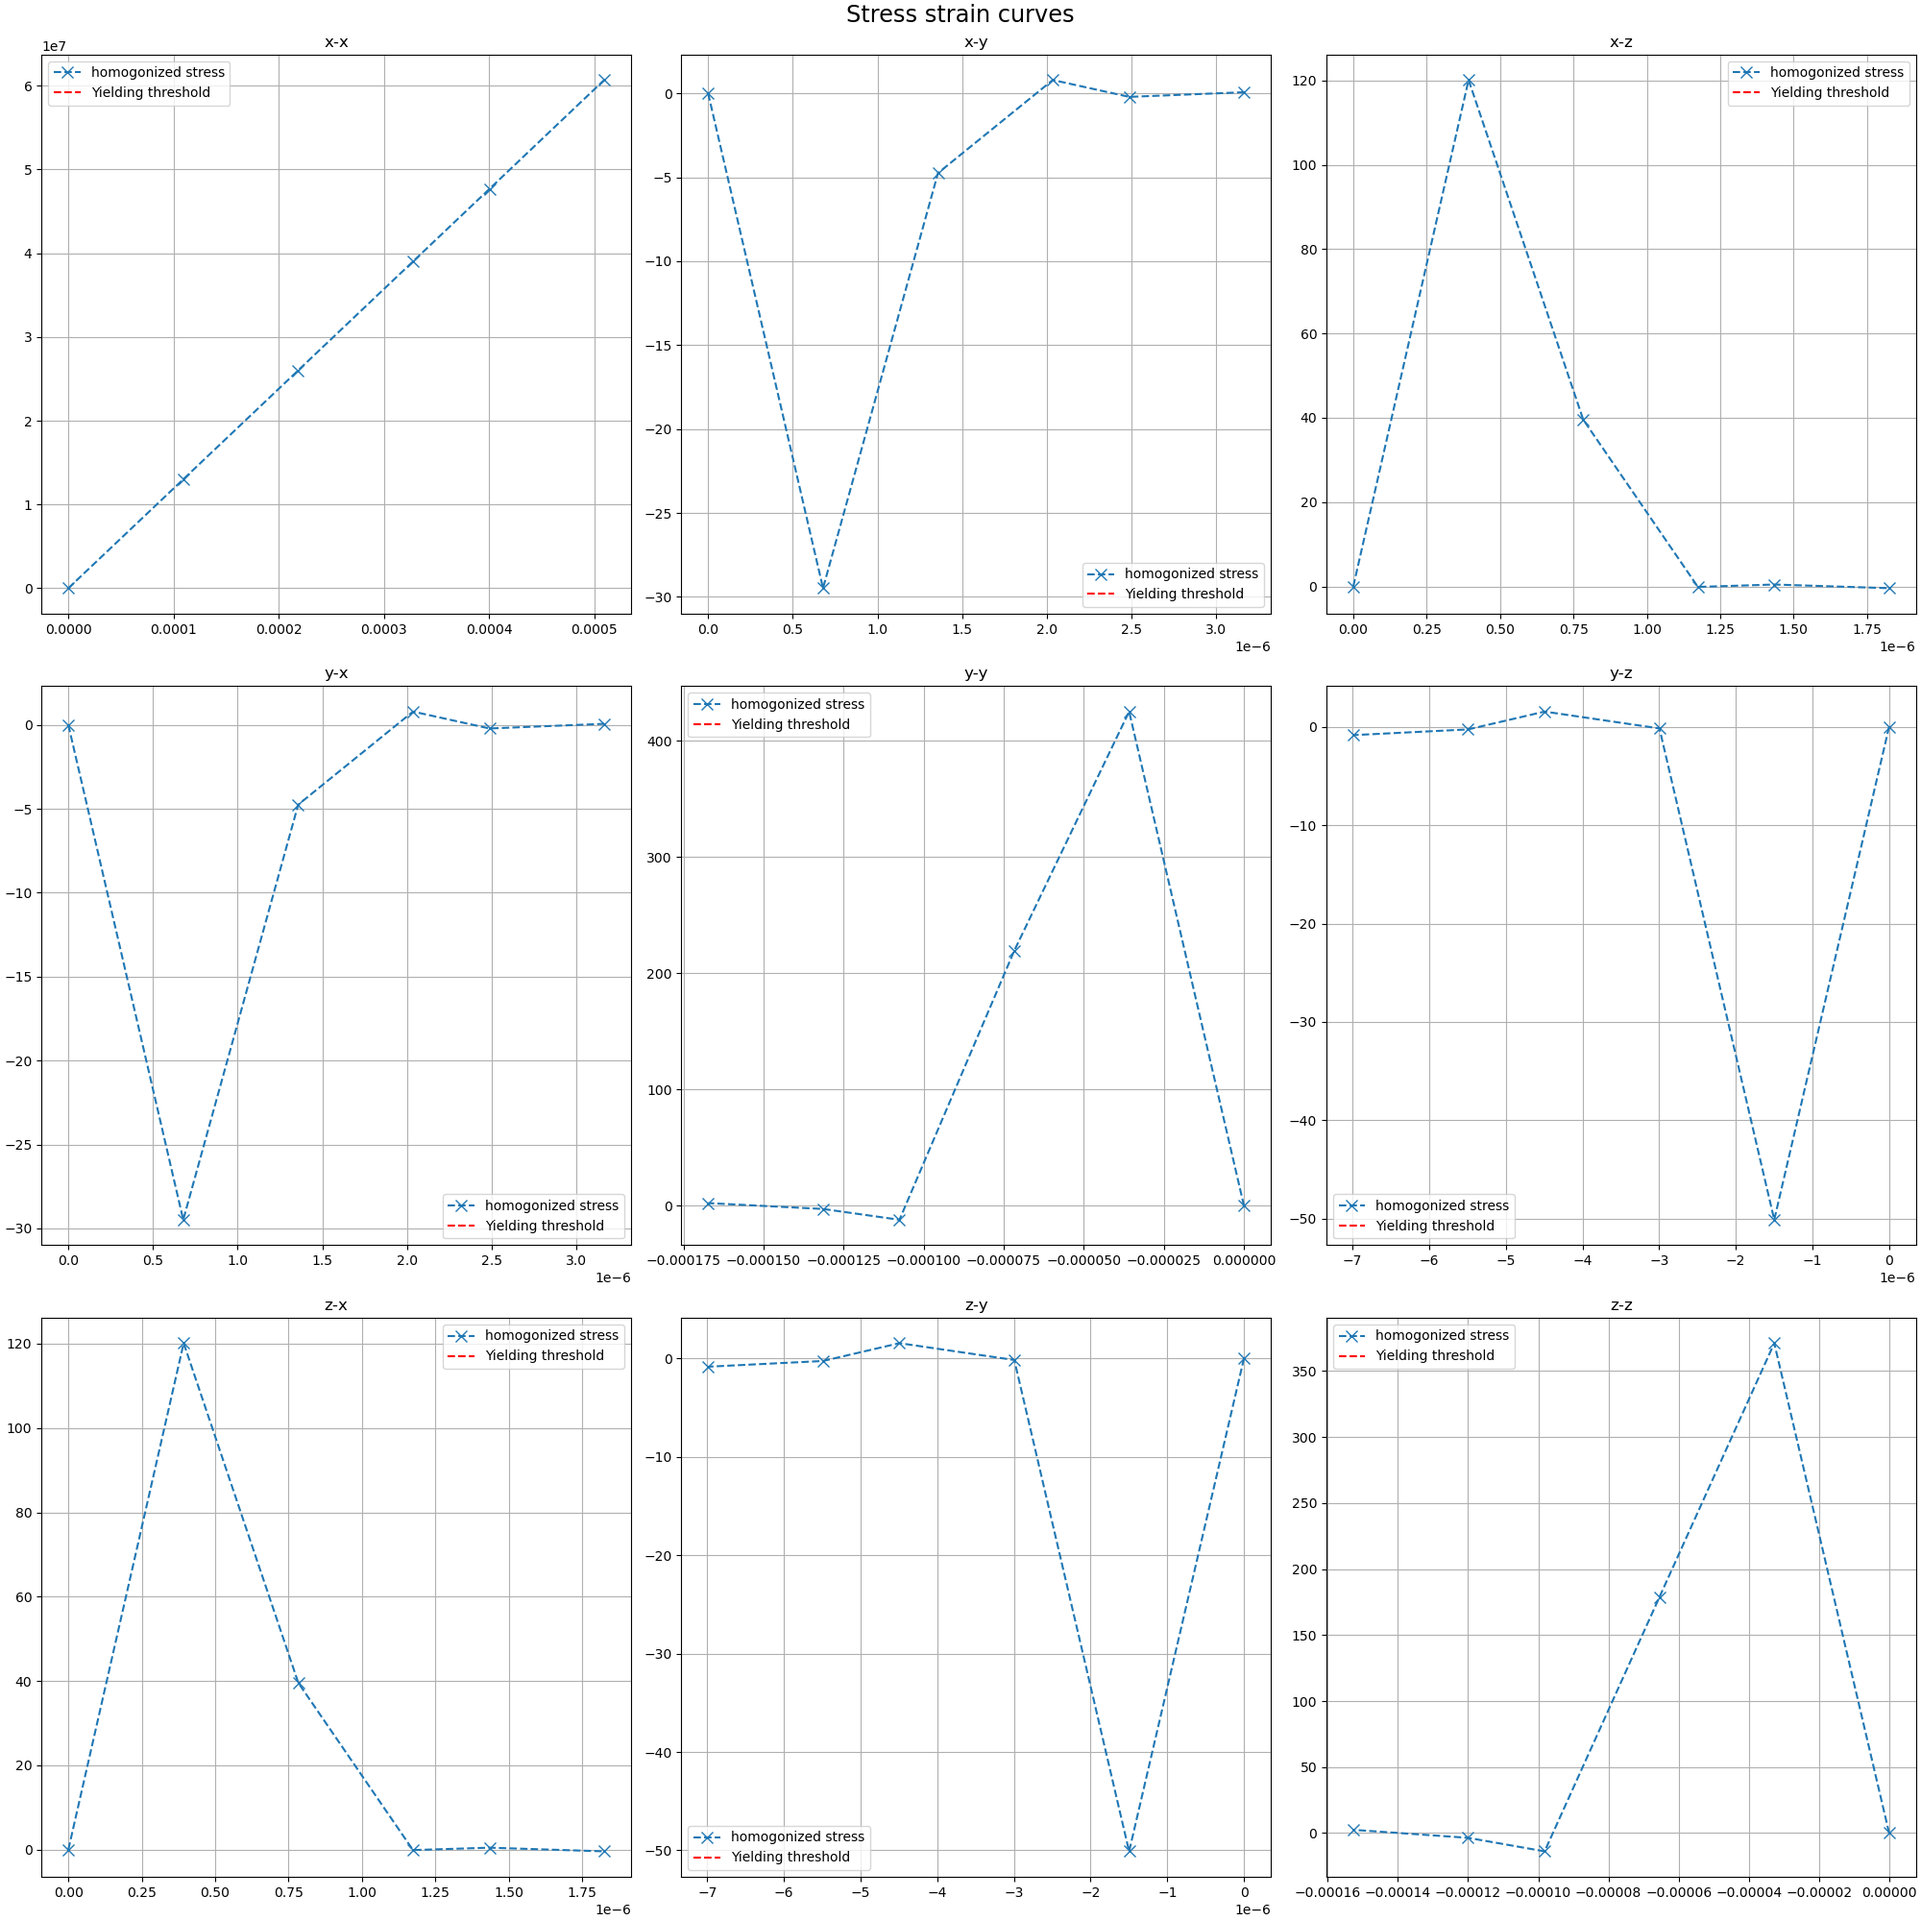
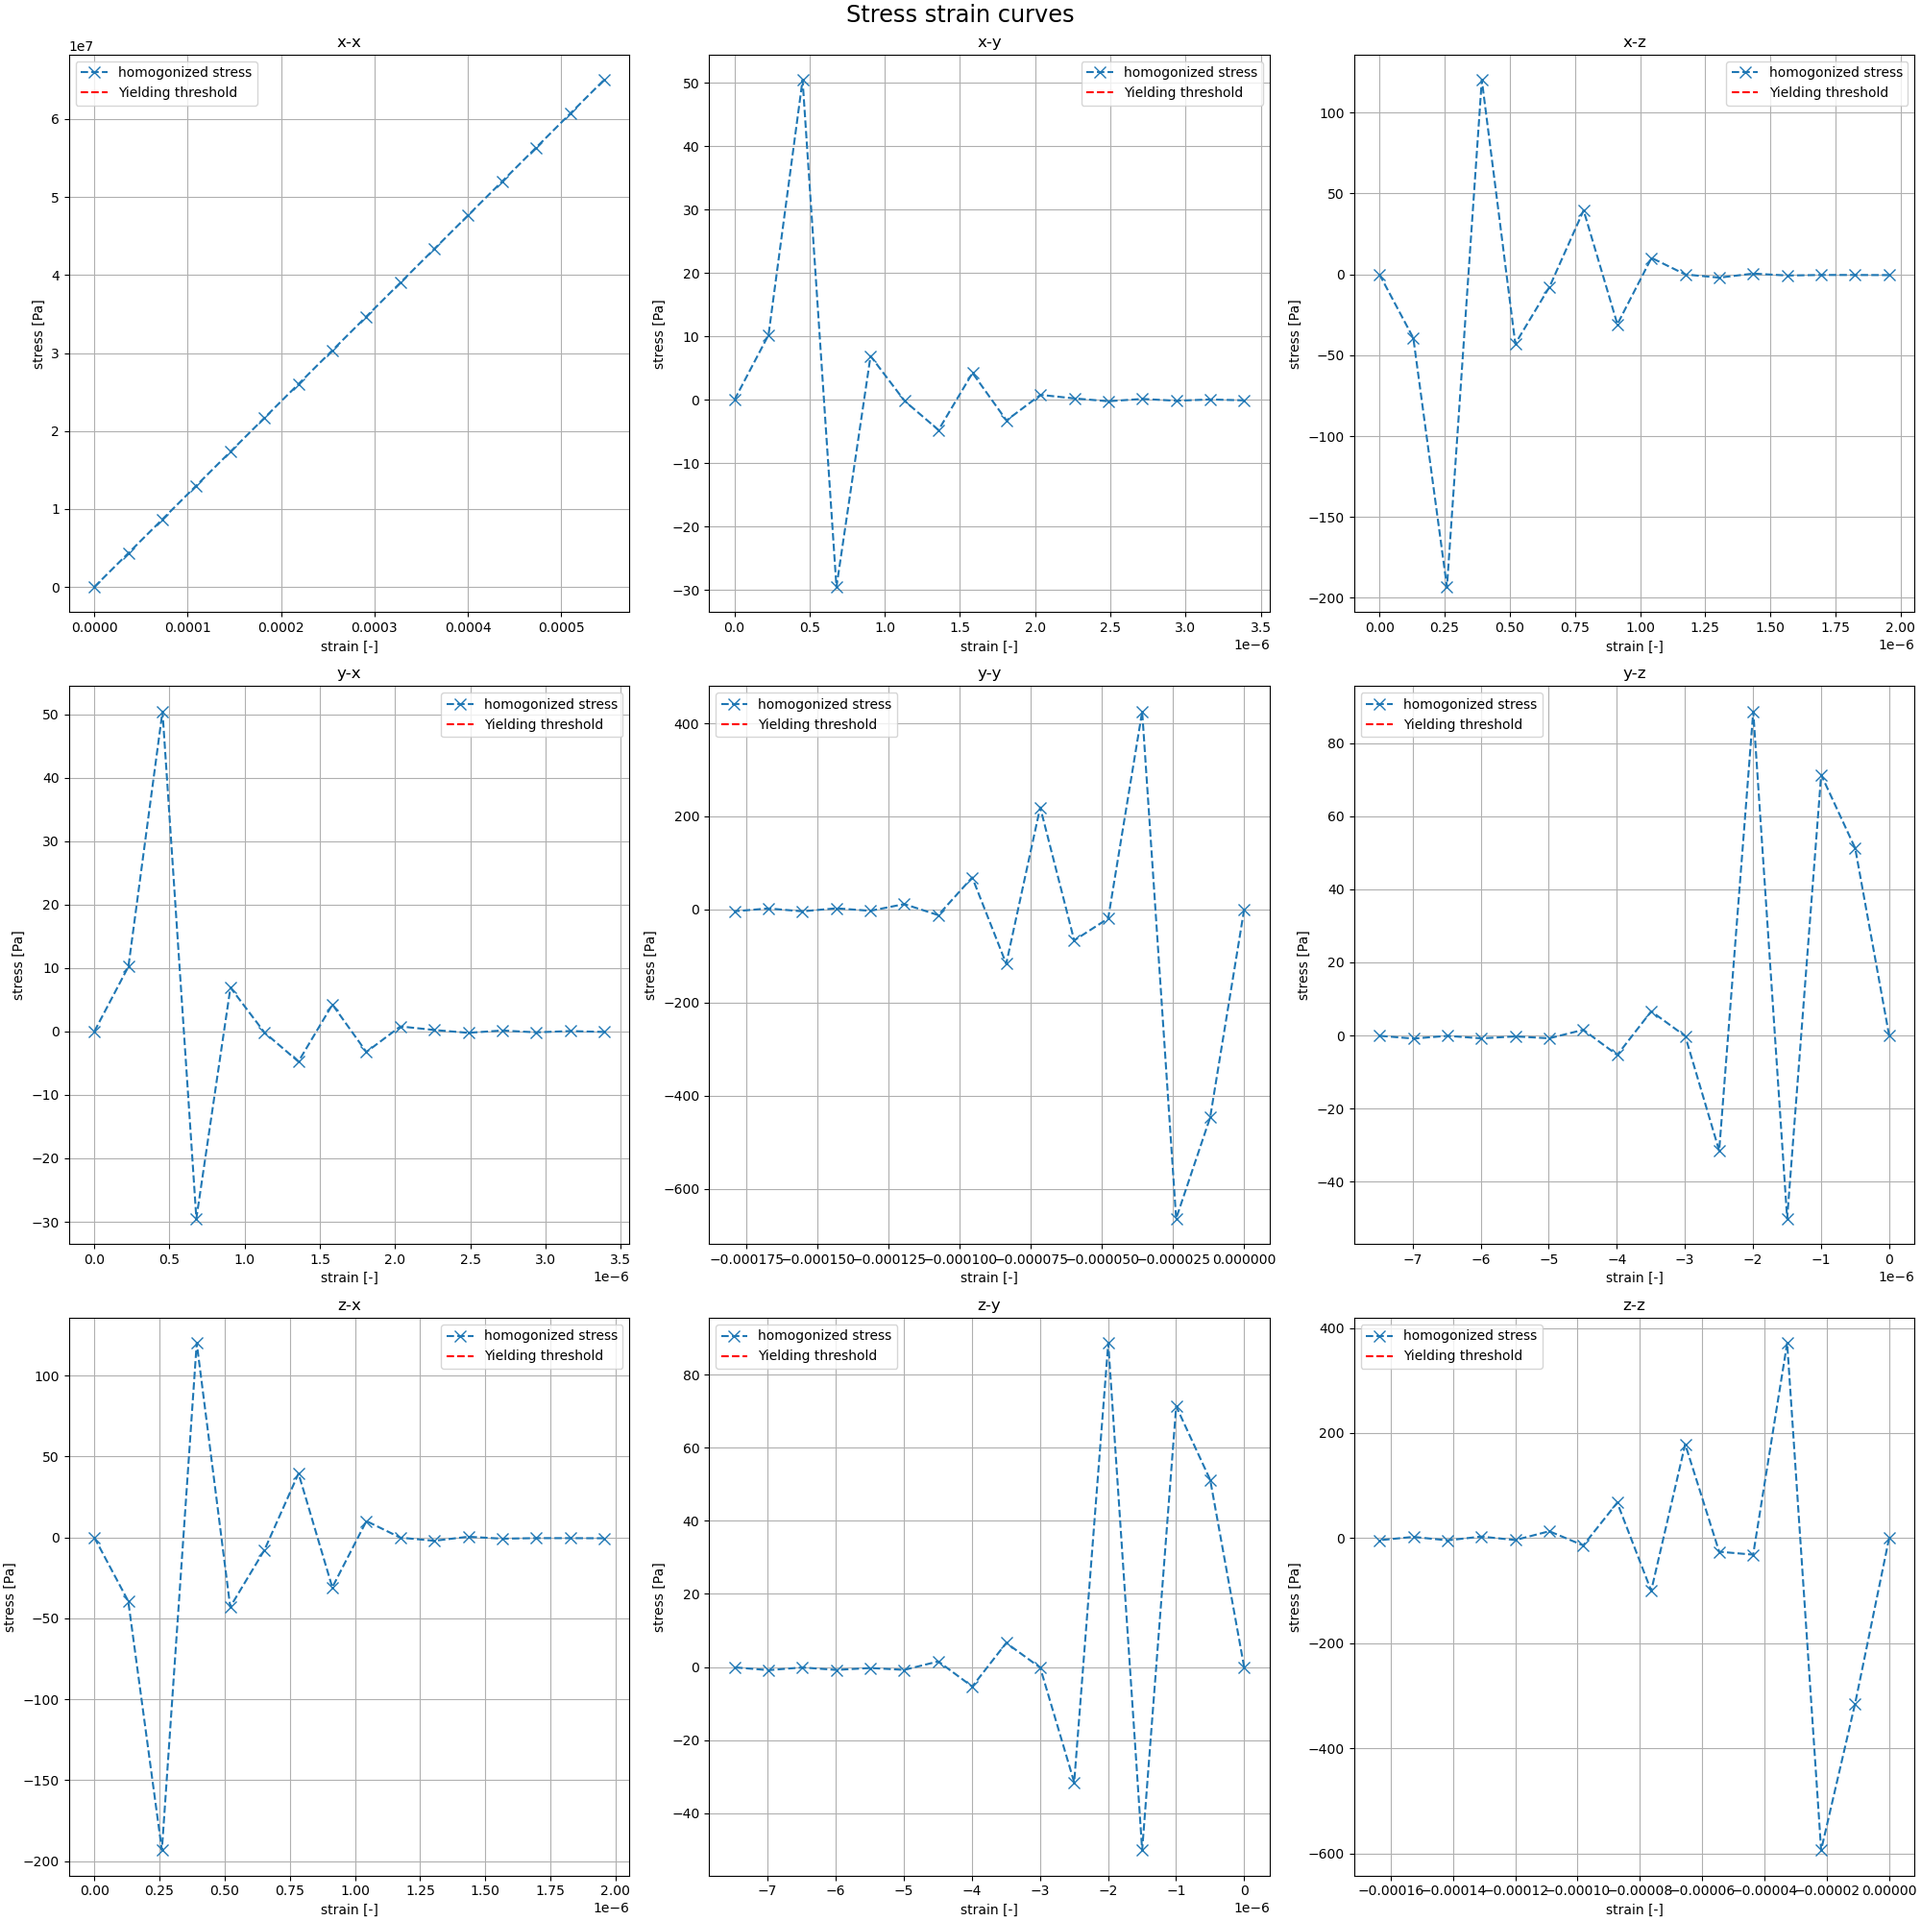
Made uniaxial yield point example and minor improvements docs

diff --git a/docs/Examples/yield_point.md b/docs/Examples/yield_point.md
@@ -59,7 +59,6 @@ general:
     dimensions          : 3D
     material_properties : "input_files/material_properties.yaml"
     grid_file           : "input_files/grid.vti"
-    dimensions_file     : ''
     stress_tensor_type: "Cauchy"
     strain_tensor_type: "true_strain"
     reduce_parasitic_stresses : False
@@ -171,7 +170,112 @@ These plots are generated while the simulation is running to show the progress a
 ## The simulation is finished
 Wait until the simulation is finished to inspect the stress-strain curves. 
 
-Find a way to open the `stress_strain_curve.png` located in the `results/yield_point/x-x` and `results/yield_point/x-y` folders. If the grid and material properties of the ExampleProject is used, the results should look similar too the following.
+Find a way to open the `stress_strain_curve.png` located in the `results/yield_point/x-x` and `results/yield_point/x-y` folders. If the grid and material properties of the ExampleProject is used, the results should look similar to the following:
 
-**The stress strain curve of: x-x**
+**The stress strain curve of: `x-x`**
 ![Stress-strain curve of x-x simulation](stress_strain_curve_x-x.png)
+**The stress strain curve of: `x-y`**
+![Stress-strain curve of x-y simulation](stress_strain_curve_x-y.png)
+
+### No yielding found
+
+As we can see in the stress-strain curves, the load that was applied was too low to find yielding in either simulation. Note that always all loading directions are shown even if a load was only applied in one direction. Also, the unloaded directions do not all show 0 stresses. This is expected behavior due to a different stress definition used by DAMASK. Because of this, parasitic stresses of the magnitude of 1% to 2% of an applied shear load can be expected in the tensile directions, see the `x-x` curve for the stress-curve of the `x-y` test case. For most cases, this small error should not be a significant problem.
+
+Back to the problem of no yielding: another hint have gotten that the applied load was too low is the hint given in the output of the script. At the end of the script, the following line should be present:
+```
+-> For 2 simulations, the applied load was not sufficient to induce yielding.
+-> Writing no yielding dataset to .csv file: /your/path/.../yield_point_test/results/yield_points_yield_point_NO_YIELD.csv
+```
+If we go back to the results folder we can inspect the contents of this file:
+```
+# Assuming currently in projects/yield_point_test/results/yield_point/x-x
+cd ../..
+
+nano yield_points_yield_point_NO_YIELD.csv
+```
+Doing so, we see the jobs that did not find yielding:
+```
+-> field_name,unit,stress_xx,stress_yy,stress_zz,stress_xy,stress_xz,stress_yz
+-> x-x, Pa, NO_YIELD_DETECTED, NO_YIELD_DETECTED, ...
+-> x-y, Pa, NO_YIELD_DETECTED, NO_YIELD_DETECTED, ...
+```
+Here we see that indeed the yield point tests in `x-x` and `x-y` did not detect any yielding. We will need to increase the yield strength estimation given in the `problem_definition.yaml`.
+
+### Increasing the estimated yield strength
+
+We need to adjust the `problem_definition.yaml`, so we will go back to root of the project folder:
+
+```
+# Assuming we are currently in the projects/yield_point_test/results folder:
+cd ..
+```
+We need to adjust the settings `estimated_tensile_yield` and `estimated_shear_yield`. A safe assumption is that both will be yielding at a applied load of `1000 MPa`:
+
+```
+nano problem_definition.yaml
+
+# Look for the lines with estimated_tensile_yield and estimated_shear_yield under the section yielding_condition. Adjust these line so it is similar to:
+
+yielding_condition:
+    ...
+    estimated_tensile_yield: 1000e6
+    estimated_shear_yield: 1000e6
+
+# Press `ctrl+x`, then `y` to save the file and finally `enter` to confirm the filename
+```
+Now we can re-run the simulation and likely we will find yielding in this case:
+```
+cd ../..
+
+python run_project.py yield_point_test
+
+# Confirm the prompts
+```
+When running this command, the previous results were still loaded. However, the code automatically detected that the estimated yield strengths have been altered and moved the old results to the `projects/yield_point_test/results_backup` folder for later reference.
+
+**Wait for the simulations to be completed**
+
+After the simulations have been completed, we can inspect the stress-strain curves again. These are once again located in `projects/yield_point_test/results/yield_point/...`:
+
+These should now look something similar to:
+
+**The stress strain curve of: `x-x`**
+![Stress-strain curve of x-x simulation](stress_strain_curve_x-x_yielding.png)
+**The stress strain curve of: `x-y`**
+![Stress-strain curve of x-y simulation](stress_strain_curve_x-y_yielding.png)
+
+In this case, we indeed see clear yielding behavior. Other then in the previous stress-strain curves, we see two new additions. There are red lines showing the yielding threshold set at 0.2% of plastic strain. The slope of this line is based on the first iteration, which is assumed to be always be fully linear.
+
+Also, the green dot for the interpolated yield point is shown. This is the linear interpolation of where yielding occurs in between the data point before and after the yielding conditions has been met.
+
+Finally, it can be noted that less data points have shown up compared to the previous stress-strain curves. In the previous, `15` data points are visible which corresponds to the `N_increments` setting provided in the `problem_definition.yaml`. In the updated stress-strain curves, only `8` are visible. This is because the monitoring loop detected that yielding had occurred and terminated the simulation prematurely to save time.
+
+The numerical values of the yield stress can be found in the generated `.csv` file. The output of the script should have already mentioned the location of this file:
+```
+-> Writing dataset to .csv file: /your/path/projects/yield_point_test/results/yield_points_yield_point.csv
+```
+Whe can inspect this file directly with `nano` (however viewing this in a more dedicated program like Excel would work as well):
+```
+nano /your/path/projects/yield_point_test/results/yield_points_yield_point.csv
+```
+This should show a output similar to the following:
+```
+field_name,unit,stress_xx,stress_yy,stress_zz,stress_xy,stress_xz,stress_yz
+x-x, Pa, 494049892.81288314, 509.5155726552522, 277.9729182444896, 462.0312202509435, 377.57650202766547, -102.04590777101937
+x-y, Pa, 2749628.1370206294, 109.66823277912755, -437.09224045146306, 268407366.9545309, 194.50825956790385, -124.82580955193718
+```
+From this, we can find that the tensile yield stress in `x-x` direction is `494 MPa` and the shear yield in the `x-y` direction is approximately `268 MPa`. 
+
+Knowing this, we can improve the estimated yielding values given in the `problem_definition.py`. When updating the estimated yield strengths, it is important to take the following into account:
+
+1. Making sure the estimated yield strengths will be an overestimation such that always yield will be found (also in other directions where the yield strength might be higher).
+2. Not setting the estimated yield strength too high as this effectively reduces the resolution of the result.
+
+For these simulation results, a good middle ground for setting the estimated yield strengths could be `650 MPa` for `estimated_tensile_yield` and `350 MPA` for estimated_shear_yield. This would lead to the following settings in the `problem_definition.yaml`:
+```
+yielding_condition:
+    ...
+    estimated_tensile_yield: 650e6
+    estimated_shear_yield: 350e6
+```
+

diff --git a/docs/users_guide.md b/docs/users_guide.md
@@ -139,8 +139,11 @@ Replace `[output_path]` with the path of a `.csv` file to which the the fitted y
 Replace `[plot_path]` with the path of a `.png` file to which the plot of the yield surface must be written to. This plot will contain all 3 combinations of independent normal stress directions and all 3 combinations of independent shear directions. For the provided yield points to show up on one of these plots, the provided yield points should only have either a normal loading or shear loading, and the loading should be along at most 2 axis (very small loading values in other directions are neglected). All data points are used for in the data fitting process, regardless of being on a plot or not.
 
 # Examples
-## Finding yield point test
+A example is given for each simulation type that can be used. The `Finding (uniaxial) yield points` is considered as an entrypoint for first time users. In this example the creation of a project, setting the basic settings, running of the code and retrieval of results is discussed. For the other examples this is considered to be understood topics.
 
+For more extensive reference on the options, see the [`Problem definition guide`](problem_definition.md).
+## Finding (uniaxial) yield points
+See this example [`here`](Examples/yield_point.md).
 ## Fitting Hill yield surface
 
 ## Fitting isotropic elastic matrix components

diff --git a/README.md b/README.md
@@ -5,6 +5,7 @@ This project is an unaffiliated extension to [DAMASK](https://github.com/damask-
 To achieve these results, this extension provides:
 - Generation of DAMASK_grid load case and numerics files.
 - Running and monitoring of DAMASK_grid simulations, including condition based termination of simulations.
+- Storing of simulation results for quick reuse.
 - Post-processing of DAMASK simulation results extending to:
     - Homogenization of simulation domain for stress and strain
     - Fitting the results to the components of the elastic matrix
